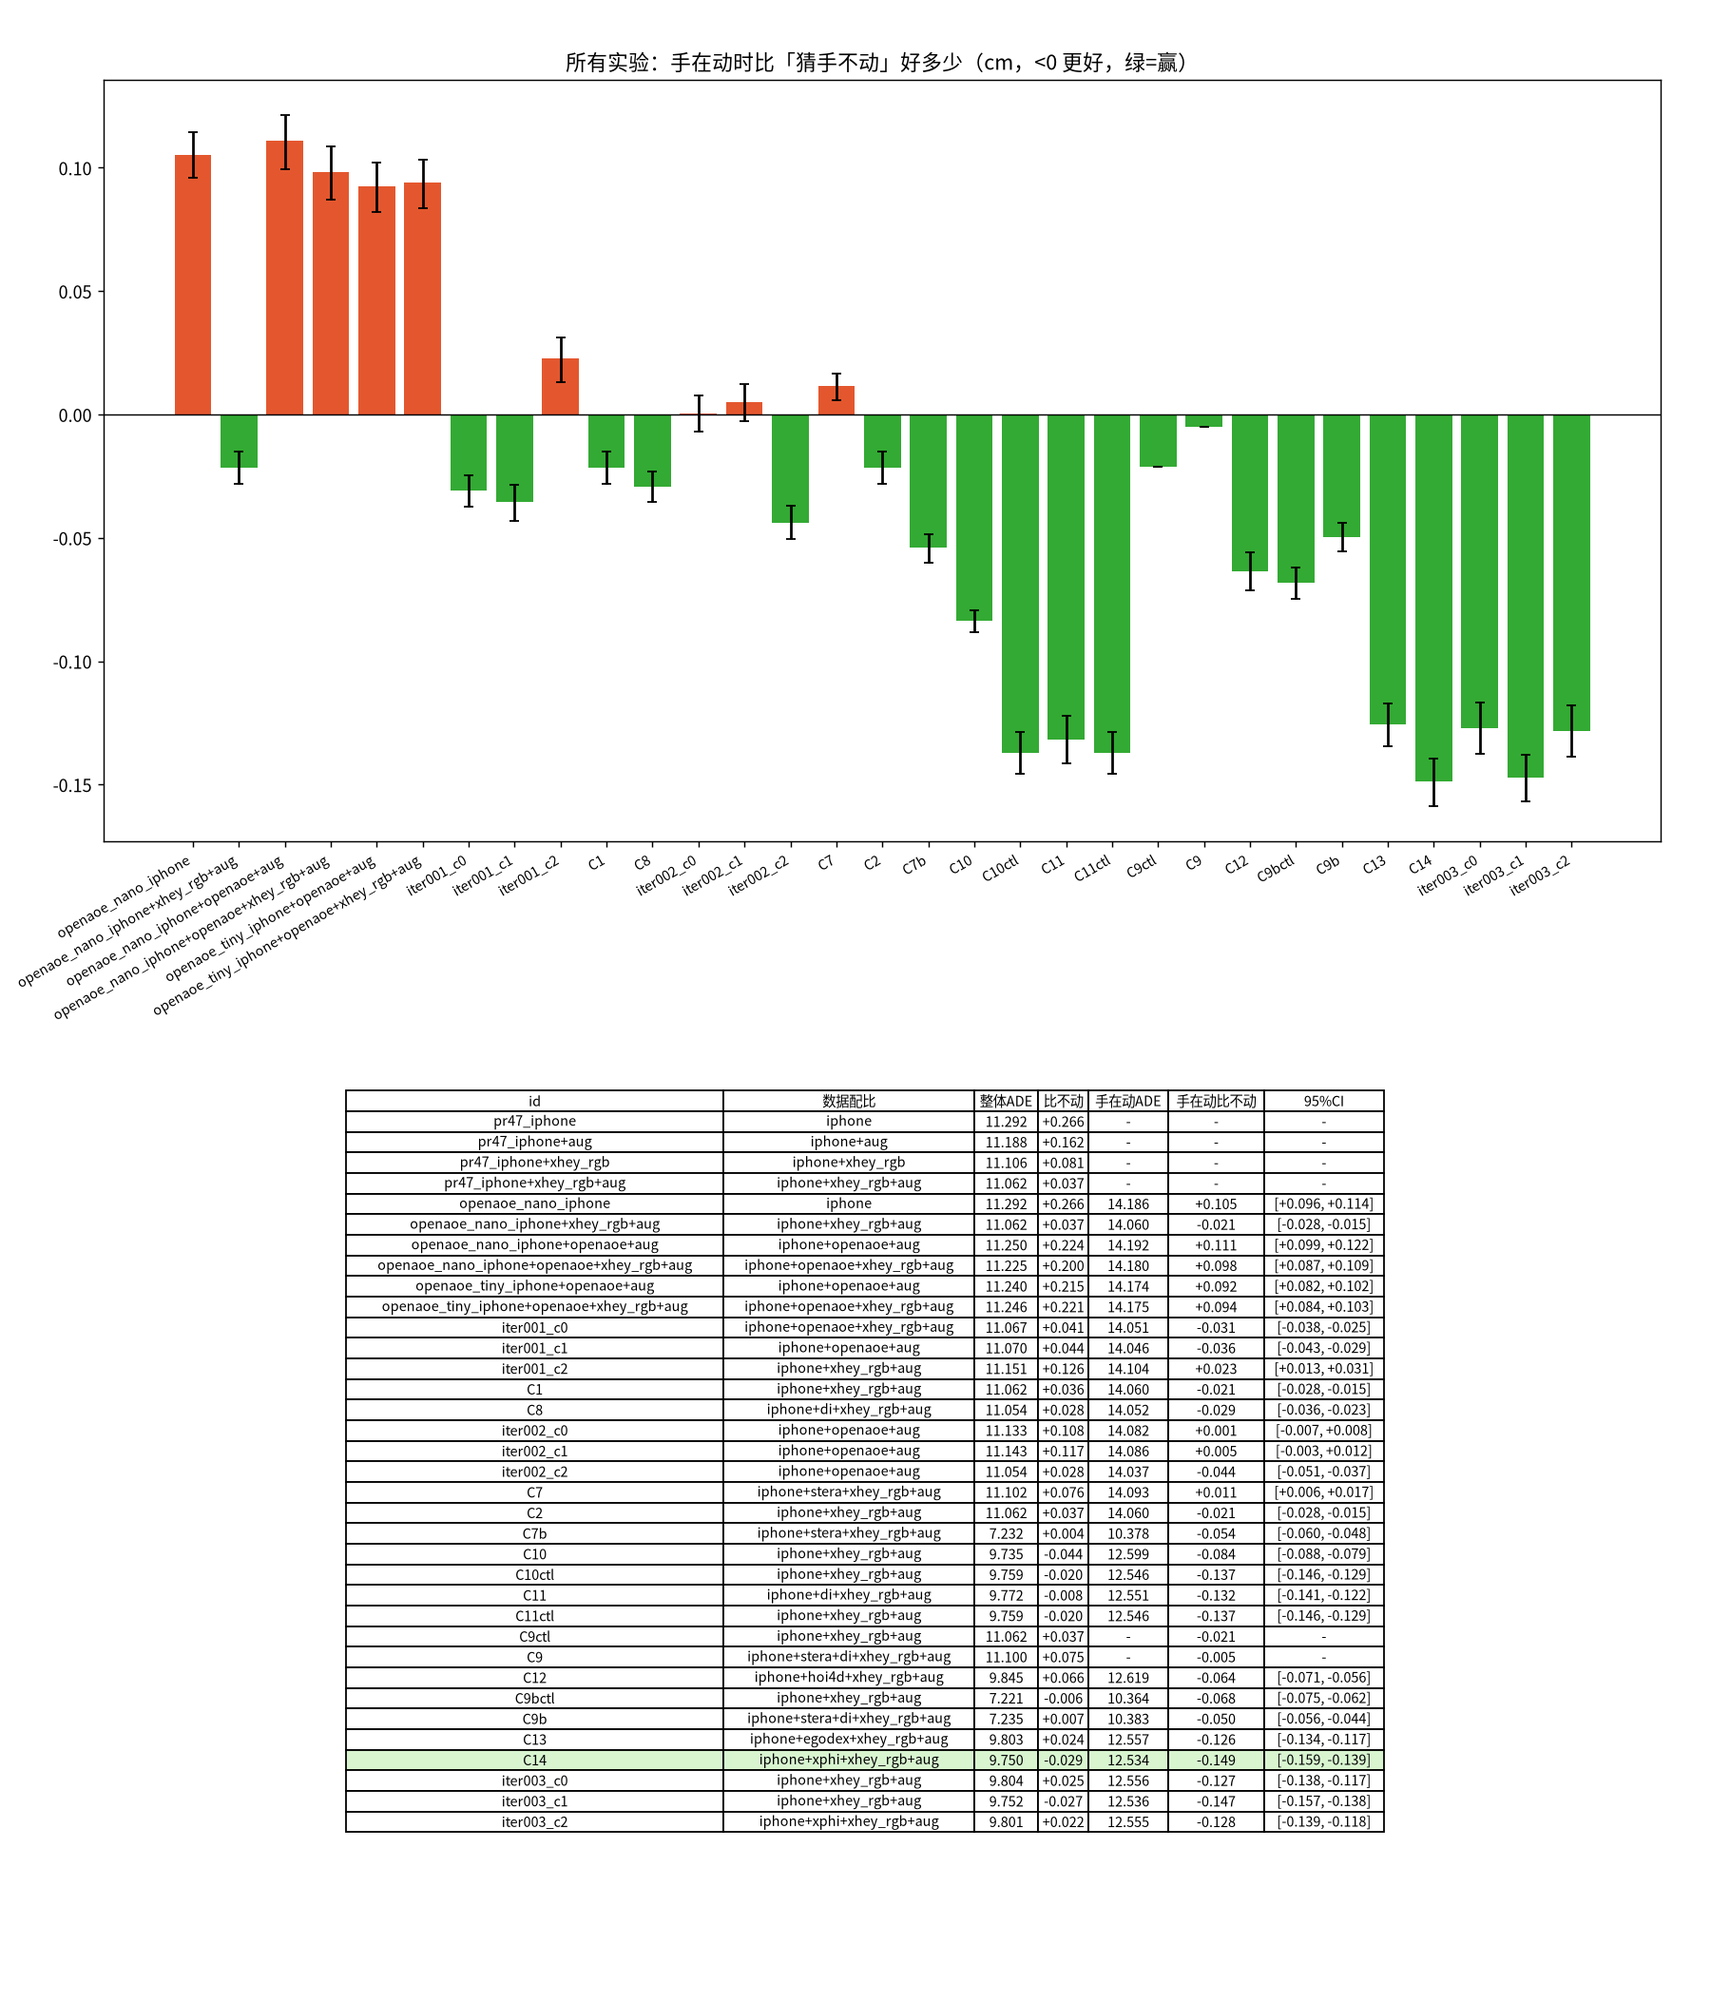
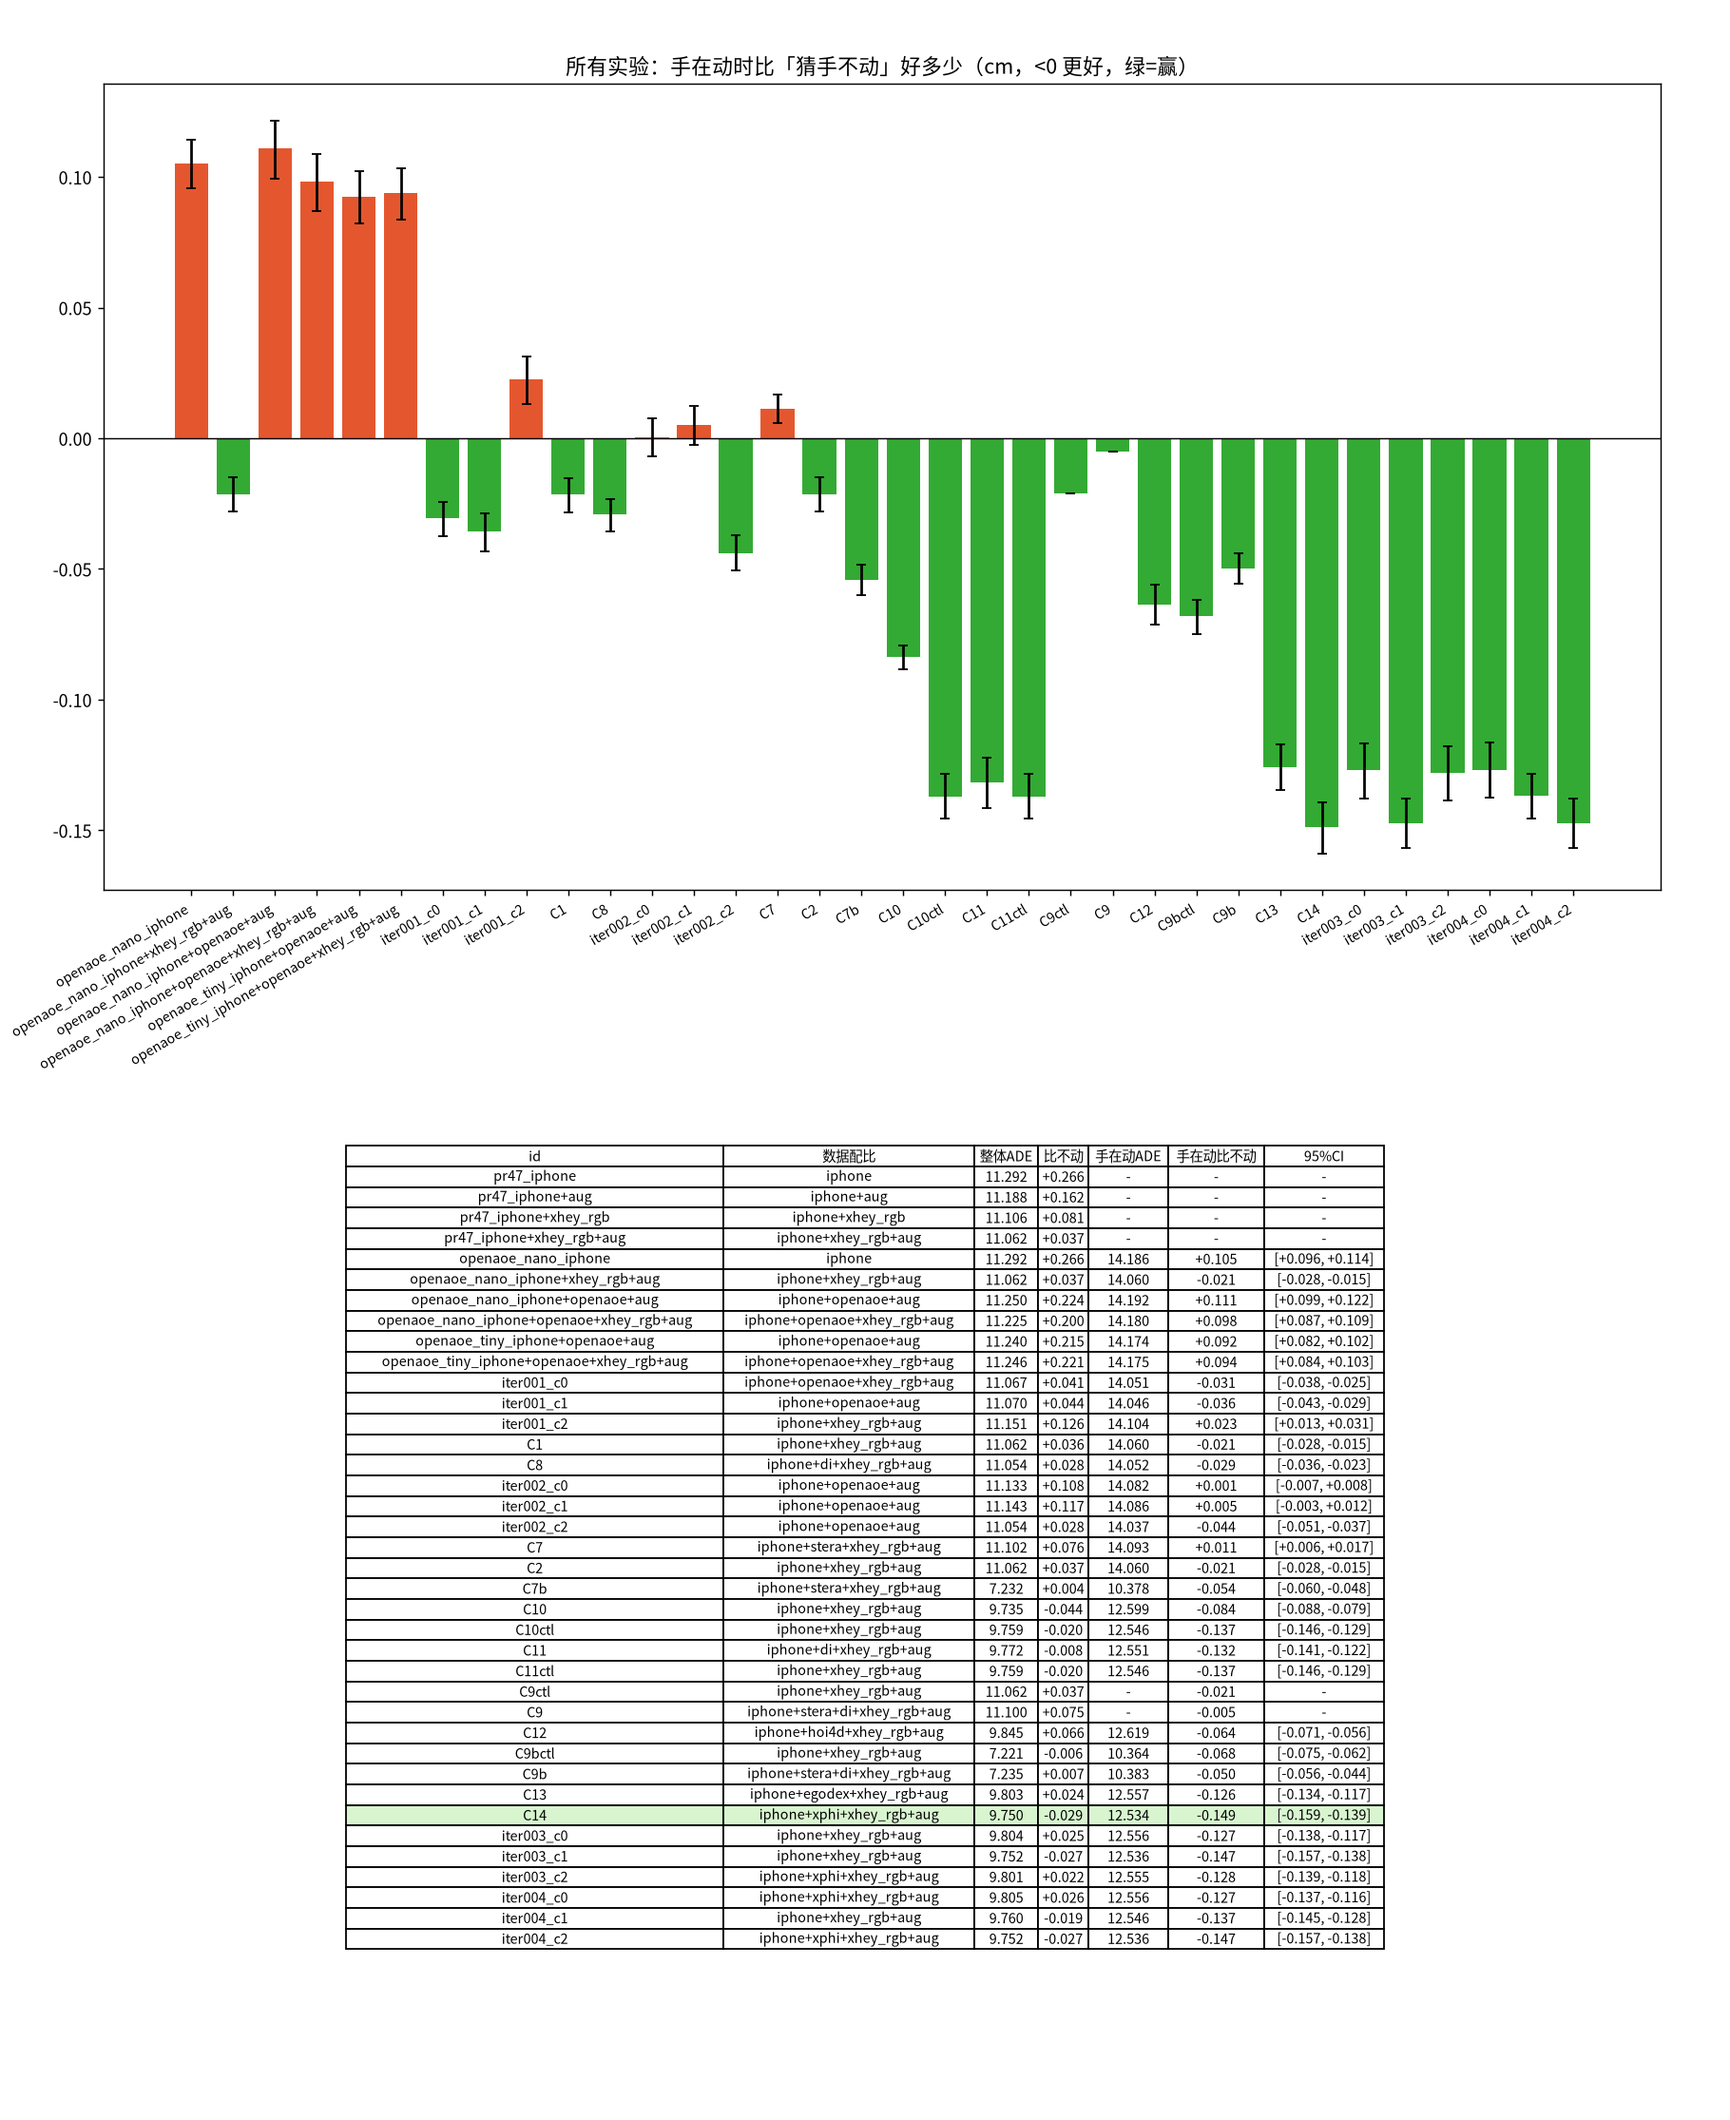
XHEY 自动迭代第 4 轮结果入账（手在动 vs 零动作：c0 −0.127 / c1 −0.137 / c2 −0.147 cm，均优于零动作），第 5 轮已提交 Kaggle

diff --git a/experiments/report/iter004_c0/README.md b/experiments/report/iter004_c0/README.md
@@ -1,0 +1,7 @@
+# iter004_c0
+
+![](ade.png)
+![](per_clip.png)
+![](horizon.png)
+![](loss_curves.png)
+![](trajectory.png)

diff --git a/experiments/report/iter004_c1/README.md b/experiments/report/iter004_c1/README.md
@@ -1,0 +1,7 @@
+# iter004_c1
+
+![](ade.png)
+![](per_clip.png)
+![](horizon.png)
+![](loss_curves.png)
+![](trajectory.png)

diff --git a/experiments/report/iter004_c2/README.md b/experiments/report/iter004_c2/README.md
@@ -1,0 +1,7 @@
+# iter004_c2
+
+![](ade.png)
+![](per_clip.png)
+![](horizon.png)
+![](loss_curves.png)
+![](trajectory.png)
